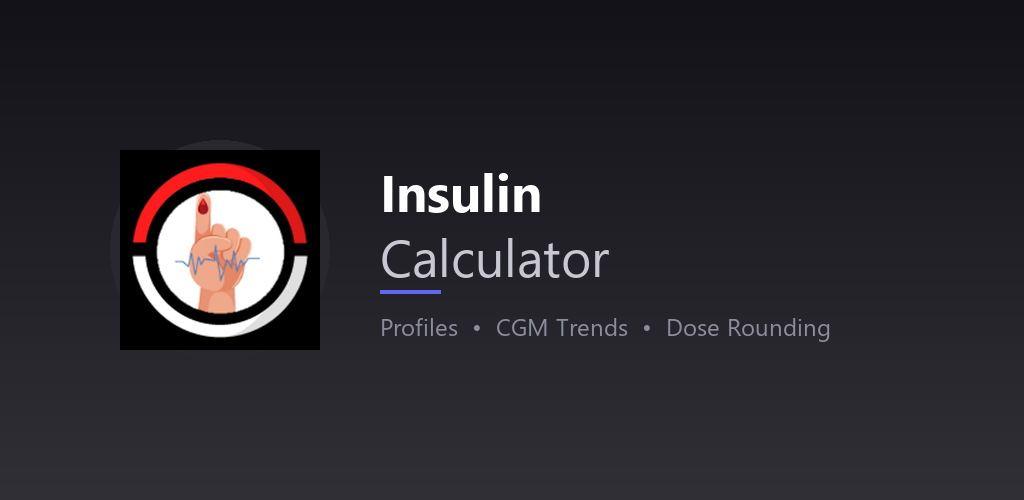
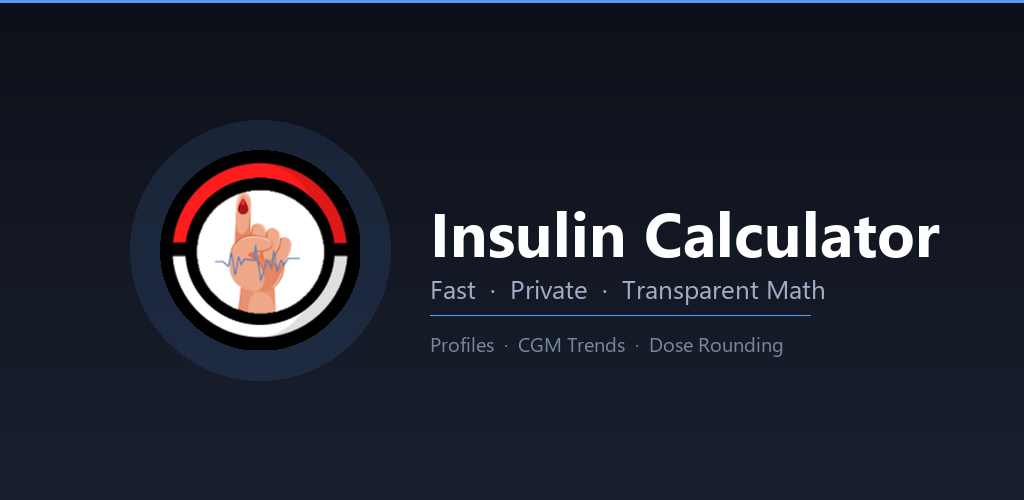
Clean up store-assets, update short description, add transparent math feature

diff --git a/store-listing.md b/store-listing.md
@@ -19,6 +19,9 @@ Enter the carbs you plan to eat and your insulin-to-carb ratio. The app instantl
 ▸ Correction Dose Calculation
 Enter your current glucose reading, correction factor, and target. The app calculates the correction dose needed to bring your glucose back to target.
 
+▸ Transparent Math
+Every calculation shows the full formula and breakdown so you can see exactly how your dose was calculated. No black boxes — just clear, verifiable math.
+
 ▸ Dexcom CGM Trend Support
 Select your current CGM trend arrow (from ↑↑ rapidly rising to ↓↓ rapidly falling) to factor glucose trends into your dose calculation. Supports both mg/dL and mmol/L adjustments.
 
